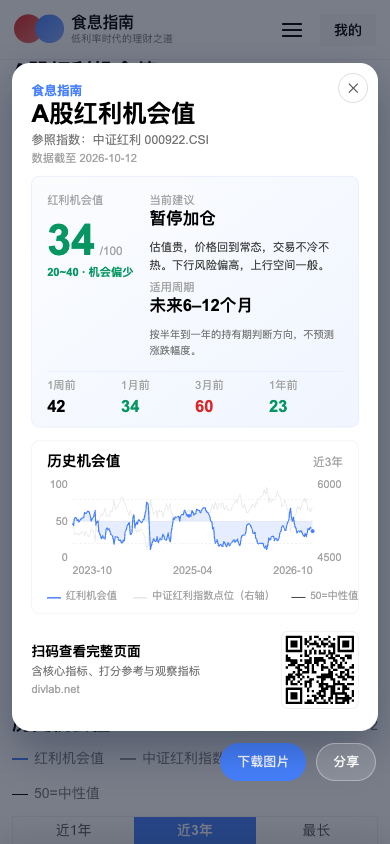
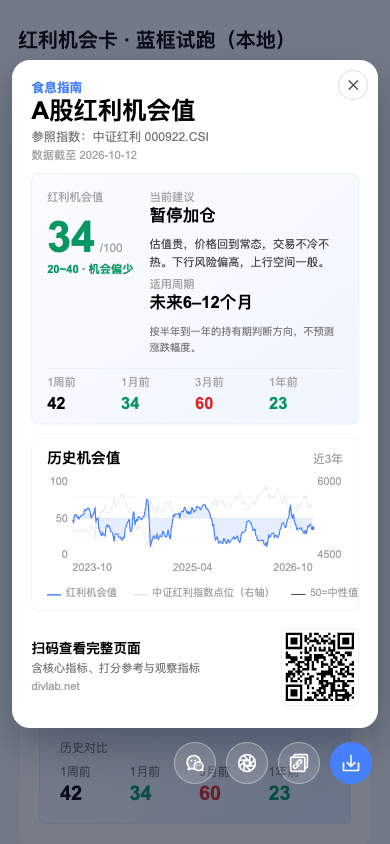
feat: 红利机会卡操作按钮改为 IconPark 纯图标圆形按钮
- 卡面下方 4 个按钮去掉文字，改为 42×42 圆形图标（微信/朋友圈/复制链接/下载）
- 图标统一取自 IconPark（wechat、friends-circle、copy-link、download、share），改 currentColor 适配底色
- 语义改由 title / aria-label 承载；PC 与移动端均右对齐于卡面外下方

diff --git a/opportunity-card.js b/opportunity-card.js
@@ -206,11 +206,15 @@
   }
 
   /* ---------- 图标（内联 SVG） ---------- */
+  /* 图标取自 IconPark（https://iconpark.oceanengine.com/official），
+     原始文件：source/Brand/wechat.svg · source/Brand/friends-circle.svg · source/Edit/copy-link.svg ·
+     source/Arrows/download.svg · source/Base/share.svg；已改为 currentColor 以适配任意底色。 */
   var ICO = {
-    wx: '<svg viewBox="0 0 24 24" fill="currentColor"><path d="M8.7 3.2C4.9 3.2 1.8 5.8 1.8 9c0 1.9 1 3.5 2.7 4.6l-.7 2.1 2.4-1.2c.8.2 1.6.3 2.5.3h.5c-.1-.4-.2-.8-.2-1.2 0-3.2 3.1-5.7 6.9-5.7h.6C15.8 5.2 12.6 3.2 8.7 3.2zm-2.3 3.1a.9.9 0 110 1.8.9.9 0 010-1.8zm4.6 0a.9.9 0 110 1.8.9.9 0 010-1.8z"/><path d="M22.2 13.6c0-2.7-2.7-4.8-5.9-4.8s-5.9 2.1-5.9 4.8 2.7 4.8 5.9 4.8c.7 0 1.3-.1 1.9-.3l2 1-.6-1.7c1.6-.9 2.6-2.3 2.6-3.8zm-7.8-1.4a.8.8 0 110 1.6.8.8 0 010-1.6zm3.8 0a.8.8 0 110 1.6.8.8 0 010-1.6z"/></svg>',
-    moments: '<svg viewBox="0 0 24 24" fill="none" stroke="currentColor" stroke-width="1.7"><circle cx="12" cy="12" r="3.2"/><path d="M12 2.5v16.2M12 21.5a9.5 9.5 0 100-19 9.5 9.5 0 000 19z"/><path d="M4.2 15.5l12.8-7M19.8 15.5L7 8.5"/></svg>',
-    link: '<svg viewBox="0 0 24 24" fill="none" stroke="currentColor" stroke-width="1.7" stroke-linecap="round"><path d="M10 13a4 4 0 006 .5l2-2a4 4 0 10-5.7-5.7l-1 1"/><path d="M14 11a4 4 0 00-6-.5l-2 2A4 4 0 109.7 18l1-1"/></svg>',
-    save: '<svg viewBox="0 0 24 24" fill="none" stroke="currentColor" stroke-width="1.7" stroke-linecap="round" stroke-linejoin="round"><path d="M12 3v11m0 0l-4-4m4 4l4-4M5 16v3a2 2 0 002 2h10a2 2 0 002-2v-3"/></svg>'
+    wx: '<svg viewBox="0 0 48 48" fill="none" xmlns="http://www.w3.org/2000/svg"> <path fill-rule="evenodd" clip-rule="evenodd" d="M36.9974 21.7112C36.8434 13.0079 29.7401 6 21 6C12.1634 6 5 13.1634 5 22C5 26.1701 6.59531 29.9676 9.20892 32.8154L8.01043 40.0257L15.125 36.9699C18.2597 38.0122 21.218 38.2728 24 37.7516" fill="currentColor" fill-opacity=".22"/> <path d="M36.9974 21.7112C36.8434 13.0079 29.7401 6 21 6C12.1634 6 5 13.1634 5 22C5 26.1701 6.59531 29.9676 9.20892 32.8154L8.01043 40.0257L15.125 36.9699C18.2597 38.0122 21.218 38.2728 24 37.7516" stroke="currentColor" stroke-width="4" stroke-linecap="round" stroke-linejoin="round"/> <path d="M15.125 20.4667C16.3676 20.4667 17.375 19.4519 17.375 18.2C17.375 16.9482 16.3676 15.9333 15.125 15.9333C13.8824 15.9333 12.875 16.9482 12.875 18.2C12.875 19.4519 13.8824 20.4667 15.125 20.4667Z" fill="currentColor"/> <path d="M24.125 20.4667C25.3676 20.4667 26.375 19.4519 26.375 18.2C26.375 16.9482 25.3676 15.9333 24.125 15.9333C22.8824 15.9333 21.875 16.9482 21.875 18.2C21.875 19.4519 22.8824 20.4667 24.125 20.4667Z" fill="currentColor"/> <path fill-rule="evenodd" clip-rule="evenodd" d="M38.7618 39.9293C37.0135 41.2302 34.8467 42 32.5 42C26.701 42 22 37.299 22 31.5C22 25.701 26.701 21 32.5 21C38.299 21 43 25.701 43 31.5C43 33.0997 42.6423 34.6159 42.0024 35.9728" fill="currentColor" fill-opacity=".22"/> <path d="M38.7618 39.9293C37.0135 41.2302 34.8467 42 32.5 42C26.701 42 22 37.299 22 31.5C22 25.701 26.701 21 32.5 21C38.299 21 43 25.701 43 31.5C43 33.0997 42.6423 34.6159 42.0024 35.9728" stroke="currentColor" stroke-width="4" stroke-linecap="round" stroke-linejoin="round"/> <path fill-rule="evenodd" clip-rule="evenodd" d="M42.0024 35.9728L43 42L38.7618 39.9293" fill="currentColor" fill-opacity=".22"/> <path d="M42.0024 35.9728L43 42L38.7618 39.9293" stroke="currentColor" stroke-width="4" stroke-linecap="round" stroke-linejoin="round"/> <path d="M35.6875 30.7999C34.7555 30.7999 34 30.0388 34 29.0999C34 28.161 34.7555 27.3999 35.6875 27.3999C36.6195 27.3999 37.375 28.161 37.375 29.0999C37.375 30.0388 36.6195 30.7999 35.6875 30.7999Z" fill="currentColor"/> <path d="M28.9375 30.7999C28.0055 30.7999 27.25 30.0388 27.25 29.0999C27.25 28.161 28.0055 27.3999 28.9375 27.3999C29.8695 27.3999 30.625 28.161 30.625 29.0999C30.625 30.0388 29.8695 30.7999 28.9375 30.7999Z" fill="currentColor"/> </svg>',
+    moments: '<svg viewBox="0 0 48 48" fill="none" xmlns="http://www.w3.org/2000/svg"> <path d="M24 44C35.0457 44 44 35.0457 44 24C44 12.9543 35.0457 4 24 4C12.9543 4 4 12.9543 4 24C4 35.0457 12.9543 44 24 44Z" stroke="currentColor" stroke-width="4" stroke-linecap="round" stroke-linejoin="round"/> <path fill-rule="evenodd" clip-rule="evenodd" d="M31 7V24V7Z" fill="currentColor" fill-opacity=".22"/> <path d="M31 7V24" stroke="currentColor" stroke-width="4" stroke-linecap="round" stroke-linejoin="round"/> <path fill-rule="evenodd" clip-rule="evenodd" d="M16.6357 6.63599L30.7779 20.7781L16.6357 6.63599Z" fill="currentColor" fill-opacity=".22"/> <path d="M16.6357 6.63599L30.7779 20.7781" stroke="currentColor" stroke-width="4" stroke-linecap="round" stroke-linejoin="round"/> <path fill-rule="evenodd" clip-rule="evenodd" d="M7 17H24H7Z" fill="currentColor" fill-opacity=".22"/> <path d="M7 17H24" stroke="currentColor" stroke-width="4" stroke-linecap="round" stroke-linejoin="round"/> <path fill-rule="evenodd" clip-rule="evenodd" d="M20.3643 17.636L6.22212 31.7781L20.3643 17.636Z" fill="currentColor" fill-opacity=".22"/> <path d="M20.3643 17.636L6.22212 31.7781" stroke="currentColor" stroke-width="4" stroke-linecap="round" stroke-linejoin="round"/> <path fill-rule="evenodd" clip-rule="evenodd" d="M17 25V42V25Z" fill="currentColor" fill-opacity=".22"/> <path d="M17 25V42" stroke="currentColor" stroke-width="4" stroke-linecap="round" stroke-linejoin="round"/> <path fill-rule="evenodd" clip-rule="evenodd" d="M17.6357 27.636L31.7779 41.7781L17.6357 27.636Z" fill="currentColor" fill-opacity=".22"/> <path d="M17.6357 27.636L31.7779 41.7781" stroke="currentColor" stroke-width="4" stroke-linecap="round" stroke-linejoin="round"/> <path fill-rule="evenodd" clip-rule="evenodd" d="M24 31L42 31L24 31Z" fill="currentColor" fill-opacity=".22"/> <path d="M24 31L42 31" stroke="currentColor" stroke-width="4" stroke-linecap="round" stroke-linejoin="round"/> <path fill-rule="evenodd" clip-rule="evenodd" d="M42.3643 16.636L28.2221 30.7781L42.3643 16.636Z" fill="currentColor" fill-opacity=".22"/> <path d="M42.3643 16.636L28.2221 30.7781" stroke="currentColor" stroke-width="4" stroke-linecap="round" stroke-linejoin="round"/> <path d="M24 31C27.866 31 31 27.866 31 24C31 20.134 27.866 17 24 17C20.134 17 17 20.134 17 24C17 27.866 20.134 31 24 31Z" fill="currentColor" fill-opacity=".22" stroke="currentColor" stroke-width="4" stroke-linecap="round" stroke-linejoin="round"/> </svg>',
+    link: '<svg viewBox="0 0 48 48" fill="none" xmlns="http://www.w3.org/2000/svg"> <path d="M12 9.92704V7C12 5.34315 13.3431 4 15 4H41C42.6569 4 44 5.34315 44 7V33C44 34.6569 42.6569 36 41 36H38.0174" stroke="currentColor" stroke-width="4"/> <rect x="4" y="10" width="34" height="34" rx="3" fill="currentColor" fill-opacity=".22" stroke="currentColor" stroke-width="4" stroke-linejoin="round"/> <path d="M18.4394 23.1101L23.7319 17.6006C25.1835 16.1489 27.5691 16.1809 29.0602 17.672C30.5513 19.1631 30.5833 21.5487 29.1316 23.0003L27.2215 25.0231" stroke="currentColor" stroke-width="4" stroke-linecap="round" stroke-linejoin="round"/> <path d="M13.4661 28.7472C12.9558 29.2575 11.9006 30.2765 11.9006 30.2765C10.4489 31.7281 10.4095 34.3155 11.9006 35.8066C13.3917 37.2977 15.7772 37.3296 17.2289 35.878L22.3931 31.1896" stroke="currentColor" stroke-width="4" stroke-linecap="round" stroke-linejoin="round"/> <path d="M18.6626 28.3284C17.97 27.6358 17.5922 26.7502 17.5317 25.8548C17.4619 24.8226 17.8138 23.7774 18.5912 23.0001" stroke="currentColor" stroke-width="4" stroke-linecap="round" stroke-linejoin="round"/> <path d="M22.3213 25.8613C23.8124 27.3524 23.8444 29.738 22.3927 31.1896" stroke="currentColor" stroke-width="4" stroke-linecap="round" stroke-linejoin="round"/> </svg>',
+    save: '<svg viewBox="0 0 48 48" fill="none" xmlns="http://www.w3.org/2000/svg"> <path d="M6 24.0083V42H42V24" stroke="currentColor" stroke-width="4" stroke-linecap="round" stroke-linejoin="round"/> <path d="M33 23L24 32L15 23" stroke="currentColor" stroke-width="4" stroke-linecap="round" stroke-linejoin="round"/> <path d="M23.9917 6V32" stroke="currentColor" stroke-width="4" stroke-linecap="round" stroke-linejoin="round"/> </svg>',
+    share: '<svg viewBox="0 0 48 48" fill="none" xmlns="http://www.w3.org/2000/svg"> <path d="M28 6H42V20" stroke="currentColor" stroke-width="4" stroke-linecap="round" stroke-linejoin="round"/> <path d="M42 29.4737V39C42 40.6569 40.6569 42 39 42H9C7.34315 42 6 40.6569 6 39V9C6 7.34315 7.34315 6 9 6L18 6" stroke="currentColor" stroke-width="4" stroke-linecap="round" stroke-linejoin="round"/> <path d="M25.7998 22.1999L41.0998 6.8999" stroke="currentColor" stroke-width="4" stroke-linecap="round" stroke-linejoin="round"/> </svg>',
   };
 
   /* ---------- 样式 ---------- */
@@ -221,35 +225,32 @@
     '.opp-share-btn{font:inherit;font-size:12px;line-height:1;cursor:pointer;padding:7px 12px;border-radius:999px;',
     'border:1px solid rgba(70,128,253,.38);background:#fff;color:#2E5BFF;font-weight:700;display:inline-flex;align-items:center;gap:6px}',
     '.opp-share-btn:hover{background:#F0F5FF}',
-    '.opp-share-btn svg{width:13px;height:13px;display:block}',
+    '.opp-share-btn svg{width:14px;height:14px;display:block}',
     /* 弹层：卡面居中；✕ 在卡面右上角；下载/分享在卡面**右下方、图外** */
     '.oppCardMask{position:fixed;inset:0;background:rgba(15,23,42,.56);display:flex;align-items:center;justify-content:center;z-index:1000;padding:18px}',
     '.oppCardMask[hidden]{display:none}',
-    '.oppCardWrap{display:flex;flex-direction:column;align-items:center;max-height:100%}',
+    /* 外层宽度 = 卡面宽度（width:min-content 由卡图决定），按钮行因此在卡宽内自动折行、右对齐 */
+    '.oppCardWrap{position:relative;display:flex;flex-direction:column;align-items:center;max-height:100%;width:min-content;max-width:100%}',
     '.oppCardStage{position:relative;display:flex;justify-content:center;min-height:0}',
-    '.oppCardBox img{display:block;max-width:min(94vw,470px);max-height:calc(100vh - 168px);width:auto;height:auto;border-radius:18px;box-shadow:0 18px 44px rgba(8,20,48,.34)}',
+    '.oppCardBox img{display:block;max-width:min(94vw,470px);max-height:calc(100vh - 172px);width:auto;height:auto;border-radius:18px;box-shadow:0 18px 44px rgba(8,20,48,.34)}',
     '.oppCardClose{position:absolute;top:10px;right:10px;z-index:3;width:30px;height:30px;border-radius:50%;cursor:pointer;',
     'border:1px solid rgba(0,0,0,.12);background:rgba(255,255,255,.94);color:#525252;font-size:14px;line-height:1;display:flex;align-items:center;justify-content:center}',
     '.oppCardClose:hover{background:#fff;color:#111}',
-    '.oppCardActions{display:flex;justify-content:flex-end;gap:10px;width:100%;padding:12px 2px 0}',
-    '.oppCardBtn{font:inherit;font-size:13px;font-weight:700;cursor:pointer;padding:9px 16px;border-radius:999px;',
-    'border:1px solid rgba(255,255,255,.32);background:rgba(255,255,255,.14);color:#fff}',
-    '.oppCardBtn:hover{background:rgba(255,255,255,.24)}',
+    '.oppCardActions{position:relative;width:100%;display:flex;flex-wrap:wrap;justify-content:flex-end;gap:10px;padding:14px 0 0}',
+    /* 圆形图标按钮（无文字；顺序：微信 / 朋友圈 / 复制链接 / 下载到本地） */
+    '.oppCardBtn{display:inline-flex;align-items:center;justify-content:center;width:42px;height:42px;padding:0;border-radius:50%;',
+    'cursor:pointer;border:1px solid rgba(255,255,255,.34);background:rgba(255,255,255,.14);color:#fff}',
+    '.oppCardBtn:hover{background:rgba(255,255,255,.26)}',
+    '.oppCardBtn svg{width:20px;height:20px;display:block;flex:none}',
     '.oppCardBtn.primary{background:#4680FD;border-color:#4680FD}',
     '.oppCardBtn.primary:hover{background:#2E5BFF}',
-    /* 分享选项浮层（在按钮上方浮出，避免出屏） */
-    '.oppShareWrap{position:relative}',
-    '.oppShareMenu{position:absolute;right:0;bottom:calc(100% + 8px);background:#fff;border:1px solid rgba(0,0,0,.08);border-radius:12px;',
-    'box-shadow:0 10px 30px rgba(8,20,48,.24);padding:6px;min-width:150px;z-index:4}',
-    '.oppShareMenu[hidden]{display:none}',
-    '.oppShareItem{display:flex;align-items:center;gap:10px;width:100%;font:inherit;font-size:13px;color:#1a1a1a;cursor:pointer;',
-    'padding:9px 10px;border:0;background:transparent;border-radius:8px;text-align:left;white-space:nowrap}',
-    '.oppShareItem:hover{background:#F2F5FF;color:#2E5BFF}',
-    '.oppShareItem svg{width:17px;height:17px;color:#4680FD}',
-    '.oppWxPanel{padding:14px 14px 12px;text-align:center;max-width:230px}',
-    '.oppWxPanel img{width:170px;height:170px;display:block;margin:0 auto 10px}',
-    '.oppWxPanel b{display:block;font-size:13px;color:#111;margin-bottom:4px}',
-    '.oppWxPanel p{font-size:12px;color:#767676;line-height:1.6;margin:0}',
+    /* 微信 / 朋友圈：在按钮行上方浮出二维码面板 */
+    '.oppWxPanel{position:absolute;right:0;bottom:calc(100% + 10px);background:#fff;border:1px solid rgba(0,0,0,.08);border-radius:14px;',
+    'box-shadow:0 12px 34px rgba(8,20,48,.28);padding:14px;text-align:center;width:214px;z-index:4}',
+    '.oppWxPanel[hidden]{display:none}',
+    '.oppWxPanel img{width:166px;height:166px;display:block;margin:0 auto 10px}',
+    '.oppWxPanel b{display:block;font-size:13px;color:#111;margin-bottom:8px}',
+    '.oppWxPanel p{font-size:12px;color:#767676;line-height:1.7;margin:0}',
     '.oppToast{position:fixed;left:50%;bottom:36px;transform:translateX(-50%);background:rgba(17,24,39,.92);color:#fff;',
     'font-size:13px;padding:9px 16px;border-radius:999px;z-index:1001;opacity:0;transition:opacity .2s}',
     '.oppToast.on{opacity:1}',
@@ -285,16 +286,13 @@
       + '<div class="oppCardBox" id="oppCardBox"></div>'
       + '<button type="button" class="oppCardClose" id="oppCardClose" aria-label="关闭">✕</button>'
       + '</div>'
-      + '<div class="oppCardActions">'
-      + '<button type="button" class="oppCardBtn primary" id="oppCardDownload">下载图片</button>'
-      + '<div class="oppShareWrap">'
-      + '<button type="button" class="oppCardBtn" id="oppCardShare" aria-haspopup="true" aria-expanded="false">分享</button>'
-      + '<div class="oppShareMenu" id="oppShareMenu" hidden>'
-      + '<button type="button" class="oppShareItem" data-act="wx">' + ICO.wx + '微信</button>'
-      + '<button type="button" class="oppShareItem" data-act="moments">' + ICO.moments + '朋友圈</button>'
-      + '<button type="button" class="oppShareItem" data-act="copy">' + ICO.link + '复制链接</button>'
-      + '<button type="button" class="oppShareItem" data-act="save">' + ICO.save + '保存图片</button>'
-      + '</div></div></div></div>';
+      + '<div class="oppCardActions" id="oppCardActions">'
+      + '<button type="button" class="oppCardBtn" data-act="wx" title="分享到微信" aria-label="分享到微信">' + ICO.wx + '</button>'
+      + '<button type="button" class="oppCardBtn" data-act="moments" title="分享到朋友圈" aria-label="分享到朋友圈">' + ICO.moments + '</button>'
+      + '<button type="button" class="oppCardBtn" data-act="copy" title="复制链接" aria-label="复制链接">' + ICO.link + '</button>'
+      + '<button type="button" class="oppCardBtn primary" data-act="save" title="下载到本地" aria-label="下载到本地">' + ICO.save + '</button>'
+      + '<div class="oppWxPanel" id="oppWxPanel" hidden></div>'
+      + '</div></div>';
     document.body.appendChild(mask);
 
     var guide = document.createElement('div');
@@ -305,55 +303,42 @@
 
     mask.addEventListener('click', function (e) { if (e.target === mask) close(); });
     document.getElementById('oppCardClose').addEventListener('click', close);
-    document.getElementById('oppCardDownload').addEventListener('click', function () { doDownload(); });
-    document.getElementById('oppCardShare').addEventListener('click', function (e) {
-      e.stopPropagation(); toggleShareMenu();
-    });
-    document.getElementById('oppShareMenu').addEventListener('click', function (e) {
-      var it = e.target.closest ? e.target.closest('.oppShareItem') : null;
-      if (!it) return;
-      /* 关键：showWxPanel 会重写菜单内容，原点击目标随即脱离 DOM，
-         若不拦截，文档级的「点外部关闭」会把刚打开的面板立刻关掉。 */
+    document.getElementById('oppCardActions').addEventListener('click', function (e) {
+      var btn = e.target.closest ? e.target.closest('.oppCardBtn') : null;
+      if (!btn) return;
+      /* 面板内容会被重写、原点击目标随即脱离 DOM；拦截以免被文档级「点外部关闭」误关 */
       e.stopPropagation();
-      shareAct(it.getAttribute('data-act'));
+      shareAct(btn.getAttribute('data-act'));
     });
     document.addEventListener('click', function (e) {
-      var m = document.getElementById('oppShareMenu');
-      if (!m || m.hidden) return;
-      var w = document.getElementById('oppCardShare');
-      if (e.target === w || (w && w.contains(e.target)) || m.contains(e.target)) return;
-      m.hidden = true; setExpanded(false);
+      var p = document.getElementById('oppWxPanel');
+      if (!p || p.hidden) return;
+      var a = document.getElementById('oppCardActions');
+      if (a && a.contains(e.target)) return;
+      p.hidden = true;
     });
     document.addEventListener('keydown', function (e) { if (e.key === 'Escape' && !mask.hidden) close(); });
   }
 
-  function setExpanded(v) {
-    var b = document.getElementById('oppCardShare');
-    if (b) b.setAttribute('aria-expanded', v ? 'true' : 'false');
+  function hideWxPanel() {
+    var p = document.getElementById('oppWxPanel'); if (p) p.hidden = true;
   }
-  function toggleShareMenu() {
-    var m = document.getElementById('oppShareMenu');
-    if (!m) return;
-    m.hidden = !m.hidden;
-    setExpanded(!m.hidden);
-  }
+
   function showWxPanel(which) {
-    var m = document.getElementById('oppShareMenu');
-    if (!m) return;
-    var title = which === 'moments' ? '分享到朋友圈' : '分享给微信好友';
-    m.innerHTML = '<div class="oppWxPanel"><b>' + title + '</b>'
-      + '<img alt="微信扫码" src="' + qrDataURL() + '">'
-      + '<p>用微信「扫一扫」打开本页<br>即可转发给好友或朋友圈</p></div>';
-    m.hidden = false; setExpanded(true);
+    var p = document.getElementById('oppWxPanel');
+    if (!p) return;
+    var title = which === 'moments' ? '分享到朋友圈' : '分享到微信';
+    p.innerHTML = '<b>' + title + '</b><img alt="微信扫码" src="' + qrDataURL() + '">'
+      + '<p>用微信「扫一扫」打开本页<br>即可转发给好友或朋友圈</p>';
+    p.hidden = false;
   }
   function shareAct(act) {
     if (act === 'wx' || act === 'moments') {
-      if (IS_WX) {
-        document.getElementById('oppShareMenu').hidden = true; setExpanded(false);
-        document.getElementById('oppWxGuide').hidden = false;
-      } else { showWxPanel(act); }
+      if (IS_WX) { hideWxPanel(); document.getElementById('oppWxGuide').hidden = false; }
+      else { showWxPanel(act); }
       return;
     }
+    hideWxPanel();
     if (act === 'copy') {
       var done = function () { toast('已复制页面链接，可粘贴到微信/朋友圈'); };
       if (navigator.clipboard && navigator.clipboard.writeText) navigator.clipboard.writeText(TARGET_URL).then(done, function () { fallbackCopy(done); });
@@ -376,7 +361,7 @@
     box.classList.add('opp-has-share');
     var btn = document.createElement('button');
     btn.type = 'button'; btn.className = 'opp-share-btn'; btn.id = 'oppShareBtn';
-    btn.innerHTML = ICO.save.replace(/^<svg/, '<svg style="transform:rotate(180deg)"') + '分享机会卡';
+    btn.innerHTML = ICO.share + '分享机会卡';
     box.appendChild(btn);
     btn.addEventListener('click', function () { open(); });
   }
@@ -386,13 +371,14 @@
     inject();
     lastSVG = build(d);
     document.getElementById('oppCardBox').innerHTML = '<img alt="A股红利机会卡" src="' + svgURL(lastSVG) + '">';
-    document.getElementById('oppShareMenu').hidden = true; setExpanded(false);
+    hideWxPanel();
     document.getElementById('oppWxGuide').hidden = true;
     document.getElementById('oppCardMask').hidden = false;
   }
   function close() {
     var m = document.getElementById('oppCardMask'); if (m) m.hidden = true;
     var g = document.getElementById('oppWxGuide'); if (g) g.hidden = true;
+    hideWxPanel();
   }
 
   function fileName() {

diff --git a/deploy/待部署清单.md b/deploy/待部署清单.md
@@ -6,4 +6,5 @@
 | 2026-10-12 21:20 | 修复 | 新增港ETF 自动补入脚本：显式写入空的「官方详情页」并输出「须人工补」告警（防止以后再静默漏掉该字段） | sync_new_hk_etf.py |
 | 2026-10-12 22:05 | 页面 | 「A股红利机会值」蓝框右上角新增「分享机会卡」按钮：点开居中弹出红利机会卡（样式 A），卡面右上角有「下载图片 / 分享 / 关闭」；卡片含机会值、参照指数、蓝框内容、近3年历史机会值图表与固定二维码 | opportunity-card.js（新增）、index.html |
 | 2026-10-12 22:05 | 脚本 | `check_data.py` 前端 JS 语法检查扩展到「index.html 引用的本地 .js」（含新增的 opportunity-card.js） | check_data.py |
+| 2026-10-12 23:15 | 页面 | 卡面下方 4 个操作按钮改为**纯图标圆形按钮**（去文字，鼠标悬停/无障碍标签仍标明含义）：微信 / 朋友圈 / 复制链接 / 下载到本地；图标统一取自 IconPark（wechat、friends-circle、copy-link、download、share） | opportunity-card.js |
 | 2026-10-12 22:40 | 页面 | 按反馈调整机会卡：①「分享机会卡」按钮改为**贴蓝框右上角**（PC/移动一致，蓝框留出上边距）；② 卡面**右上角只留 ✕**，「下载图片 / 分享」移到**卡面右下方、图外**；③「分享」点开在按钮上方浮出选项（微信 / 朋友圈 / 复制链接 / 保存图片），微信、朋友圈出二维码（桌面扫码）、微信内置浏览器给「右上角 ⋯」引导；④ 卡面折行改用 canvas 精确度量 + 中文禁则，放宽行距，缓解拥挤 | opportunity-card.js |
